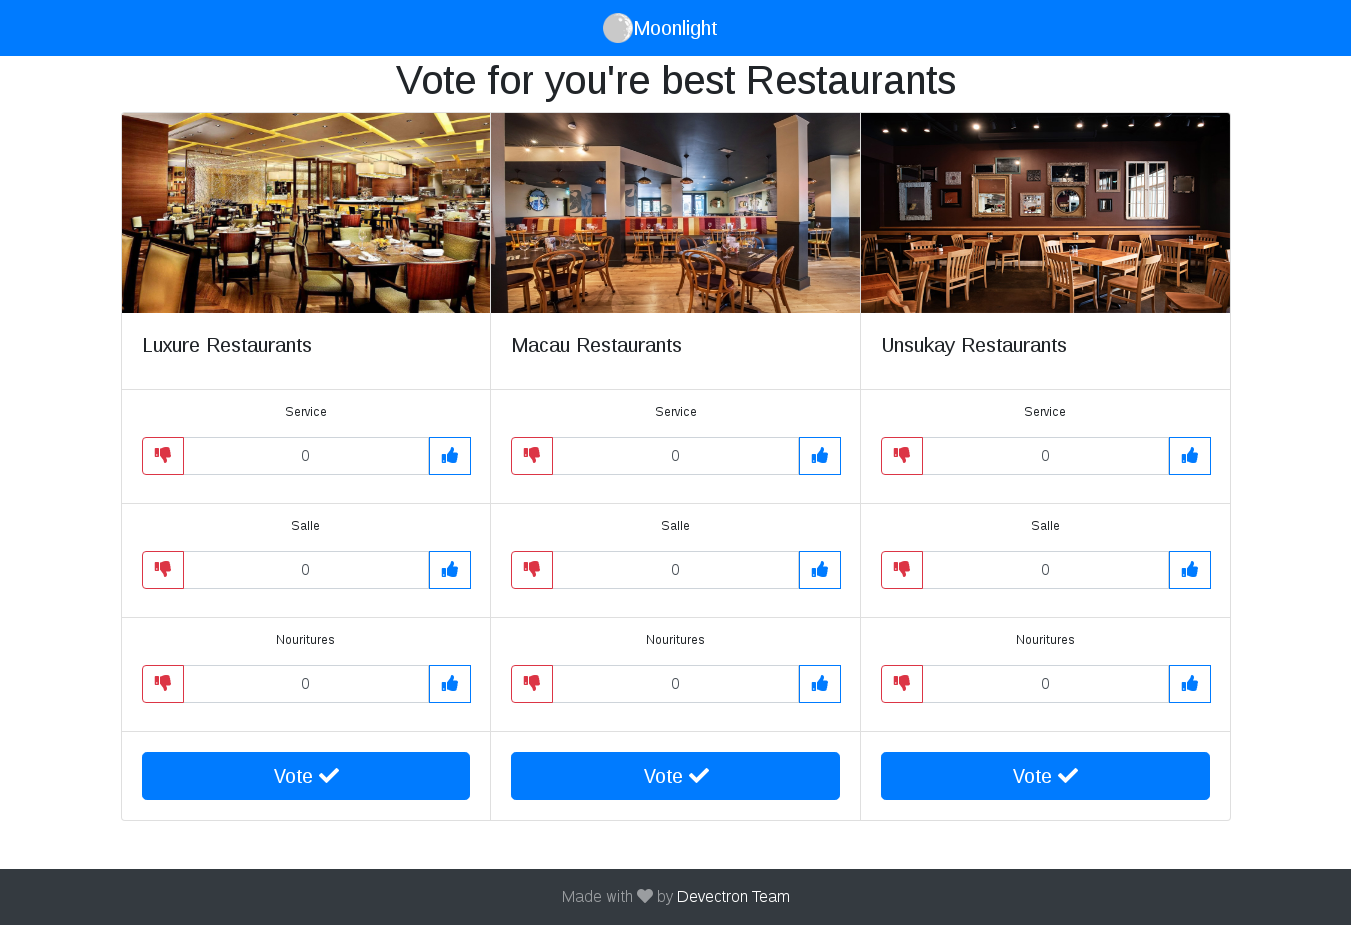
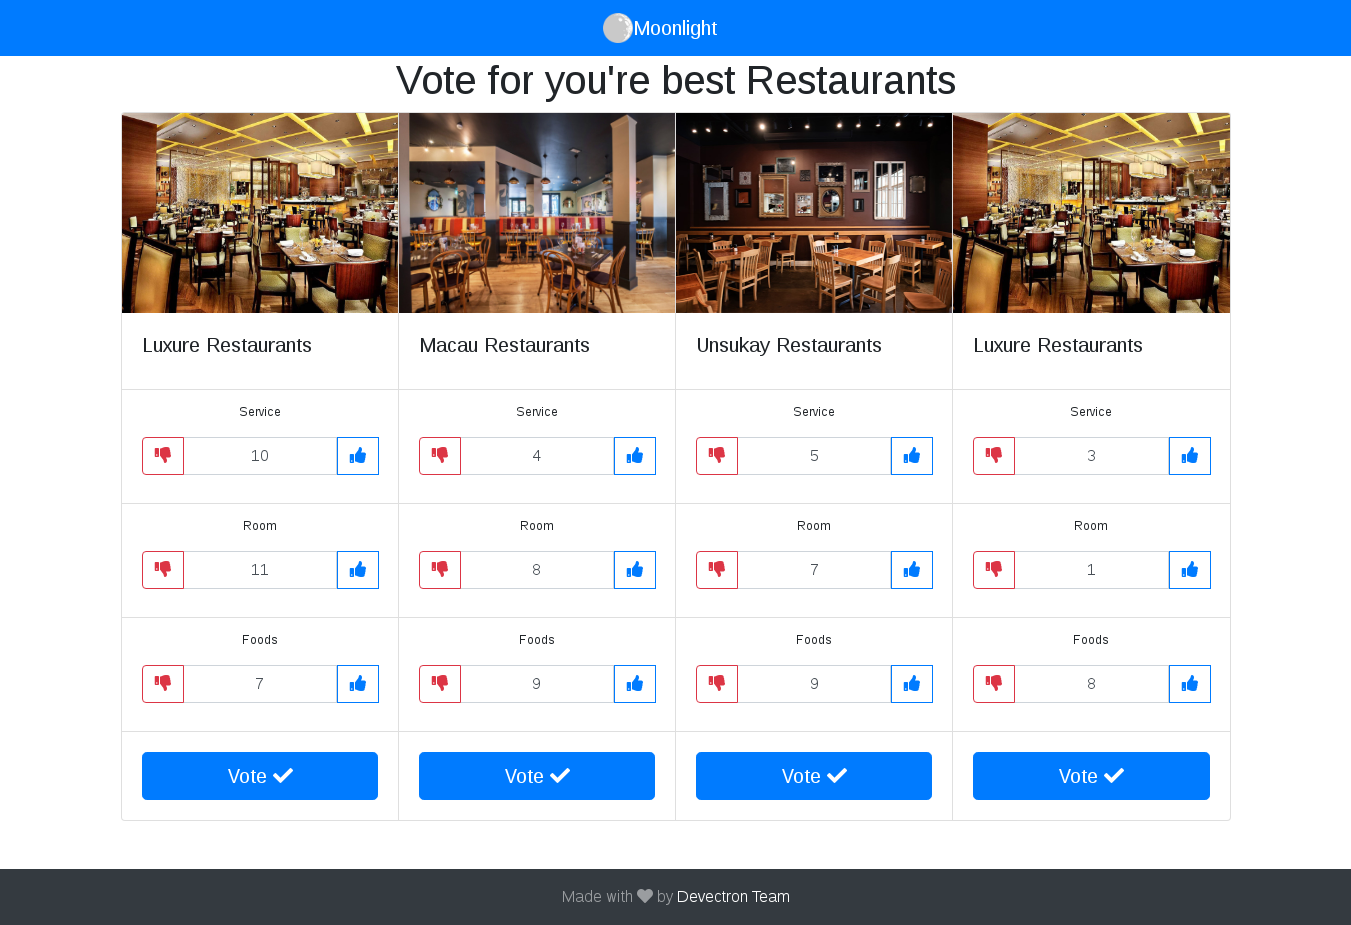
fixing issues and refactoring ...

diff --git a/src/app/rest/rest.component.html b/src/app/rest/rest.component.html
@@ -10,54 +10,42 @@
           <p class="small text-center">Service</p>
           <div class="input-group mb-3">
             <div class="input-group-prepend">
-              <button class="btn btn-outline-danger" type="button" id="minus"><i class="fa fa-thumbs-down"></i></button>
+              <button class="btn btn-outline-danger" type="button" id="minus" (click)="onClickMinus(rest.id, 'voteser')"><i class="fa fa-thumbs-down"></i></button>
             </div>
-            <input type="text" id="vote" class="form-control text-center" value="{{rest.quality.service}}">
+            <input type="text" id="voteser" class="form-control text-center" value="{{rest.quality.service}}">
             <div class="input-group-prepend">
-              <button class="btn btn-outline-primary" type="button" id="add"><i class="fa fa-thumbs-up"></i></button>
+              <button class="btn btn-outline-primary" type="button" id="add" (click)="onClickAdd(rest.id, 'voteser')"><i class="fa fa-thumbs-up"></i></button>
             </div>
           </div>
         </li>
         <li class="list-group-item">
-          <p class="small text-center">Salle</p>
+          <p class="small text-center">Room</p>
           <div class="input-group mb-3">
             <div class="input-group-prepend">
-              <button class="btn btn-outline-danger" type="button" id="minus"><i class="fa fa-thumbs-down"></i></button>
+              <button class="btn btn-outline-danger" type="button" id="minus" (click)="onClickMinus(rest.id, 'votesal')"><i class="fa fa-thumbs-down"></i></button>
             </div>
-            <input type="text" id="vote" class="form-control text-center" value="{{rest.quality.salle}}">
+            <input type="text" id="votesal" class="form-control text-center" value="{{rest.quality.salle}}">
             <div class="input-group-prepend">
-              <button class="btn btn-outline-primary" type="button" id="add"><i class="fa fa-thumbs-up"></i></button>
+              <button class="btn btn-outline-primary" type="button" id="add" (click)="onClickAdd(rest.id, 'votesal')"><i class="fa fa-thumbs-up"></i></button>
             </div>
           </div>
         </li>
         <li class="list-group-item">
-          <p class="small text-center">Nouritures</p>
+          <p class="small text-center">Foods</p>
             <div class="input-group mb-3">
               <div class="input-group-prepend">
-                <button class="btn btn-outline-danger" type="button" id="minus"><i class="fa fa-thumbs-down"></i></button>
+                <button class="btn btn-outline-danger" type="button" id="minus" (click)="onClickMinus(rest.id, 'votenou')"><i class="fa fa-thumbs-down"></i></button>
               </div>
-              <input type="text" id="vote" class="form-control text-center" value="{{rest.quality.nourriture}}">
+              <input type="text" id="votenou" class="form-control text-center" value="{{rest.quality.nourriture}}">
               <div class="input-group-prepend">
-                <button class="btn btn-outline-primary" type="button" id="add"><i class="fa fa-thumbs-up"></i></button>
+                <button class="btn btn-outline-primary" type="button" id="add" (click)="onClickAdd(rest.id, 'votenou')"><i class="fa fa-thumbs-up"></i></button>
               </div>
             </div>
           </li>
         </ul>
       <div class="card-body">
-        <button type="button" class="btn btn-primary btn-lg btn-block">Vote <i class="fa fa-check"></i></button>
+        <button type="button" class="btn btn-primary btn-lg btn-block" (click)="vote(rest)" onclick="window.location.reload()">Vote <i class="fa fa-check"></i></button>
       </div>
     </div>
   </div>
 </div>
-<script>
-  $("#add").click(function () {
-    var value = 1 + parseInt($("#vote").val());
-    $("#vote").val(value);
-    console.log(value)
-  });
-  $("#minus").click(function () {
-    var value = parseInt($("#vote").val()) - 1;
-    $("#vote").val(value);
-    console.log(value)
-  });
-</script>

diff --git a/src/app/rest/rest.component.ts b/src/app/rest/rest.component.ts
@@ -21,5 +21,54 @@ export class RestComponent implements OnInit {
       this.Rests = data;
     });
   }
-
+  vote(rest:Rest) {
+    this.restService.vote(rest).subscribe(
+            data => {
+                console.log("POST ", data);
+            },
+            error => {
+                console.log("Error", error);
+            };
+    //console.log(rest);
+  }
+  onClickAdd(id, quality) {
+    switch(quality) { 
+      case "voteser": { 
+        this.Rests[id].quality.service += 1;
+        break; 
+      } 
+      case "votesal": {
+        this.Rests[id].quality.salle += 1;
+        break; 
+        }
+      case "votenou": {
+        this.Rests[id].quality.nourriture += 1;
+        break;
+      }
+      default: { 
+        console.log(id + " " + quality);
+        break; 
+      } 
+    } 
+  }
+  onClickMinus(id, quality) {
+    switch(quality) { 
+      case "voteser": { 
+        this.Rests[id].quality.service -= 1;
+        break; 
+      } 
+      case "votesal": {
+        this.Rests[id].quality.salle -= 1;
+        break; 
+        }
+      case "votenou": {
+        this.Rests[id].quality.nourriture -= 1;
+        break;
+      }
+      default: { 
+        console.log(id + " " + quality);
+        break; 
+      } 
+    } 
+  }
 }

diff --git a/src/app/rest.service.ts b/src/app/rest.service.ts
@@ -1,12 +1,22 @@
 import { Injectable } from '@angular/core';
-import { HttpClient } from '@angular/common/http';
+import { HttpClient, HttpHeaders } from '@angular/common/http';
 import { environment } from '../environments/environment';
+
+const httpOptions = {
+  headers: new HttpHeaders({
+    'Content-Type':  'application/json'
+  })
+};
 
 @Injectable()
 export class RestService {
   constructor(private httpClient: HttpClient) { }
   getAllRest() {
     return this.httpClient.get(environment.gateway + '/index');
+  }
+  vote(rest) {
+    //console.log("vote "+ rest);
+    return this.httpClient.post(environment.gateway + '/rest', rest, httpOptions);
   }
 }
 

diff --git a/src/app/app-routing.module.ts b/src/app/app-routing.module.ts
@@ -4,9 +4,9 @@ import { NgModule } from '@angular/core';
 import { RestComponent } from './rest/rest.component';
 
 const routes: Routes = [
-  { path: '', redirectTo: 'index', pathMatch: 'full' },
-  { path: 'index', component: IndexComponent },
-  { path: 'rest', component: RestComponent}
+  { path: '', redirectTo: 'home', pathMatch: 'full' },
+  { path: 'home', component: IndexComponent },
+  { path: 'rest', component: RestComponent },
 ];
 
 @NgModule({
